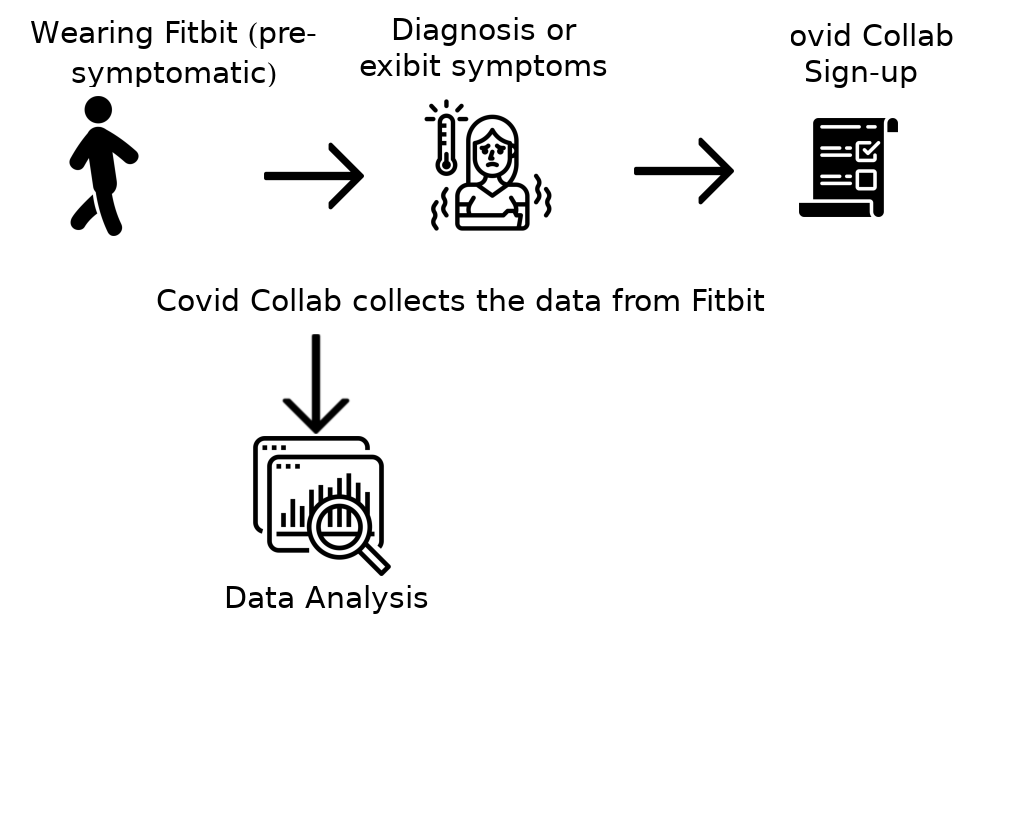
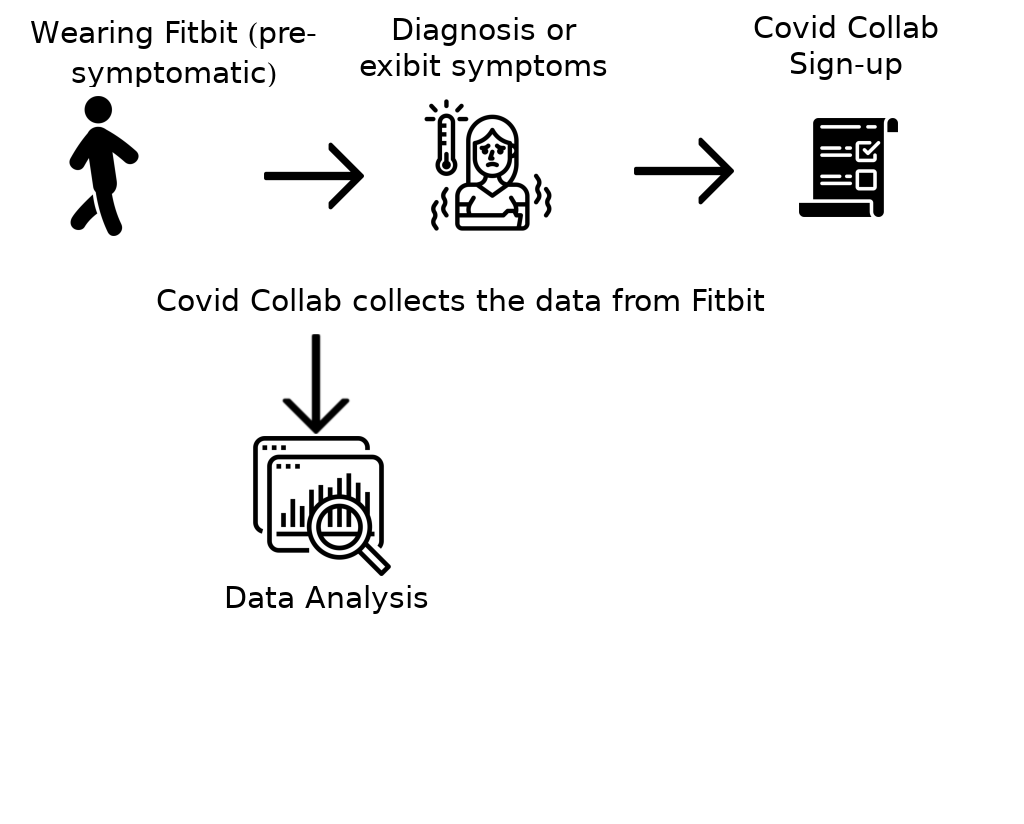
update text, fix workflow img

Changed region(s): [[0.75, 0.0, 0.9375, 0.1214]]

diff --git a/index.md b/index.md
@@ -43,14 +43,14 @@ page_sections:
 - template: content-feature
   block: feature-1
   media_alignment: Right
-  headline: "If you are an owner of a Fitbit Device and a Smartphone then you are eligible to participate!"
+  headline: "Do you own a Fitbit device and a Smartphone then you are eligible to participate!"
   content:
     "<strong>Some questions you'd be helping answer</strong>
     <ul>
-    <li>How social distancing measures affect the transmission rate (inside families and the general population) of the virus in normal the population?</li>
-    <li>What are the symptoms? Are there any early predictors of infection (e.g. heart rate, activity, respiration, sleep, loss of sense of smell)? And how reliable are these?</li>
-    <li>How contagious the virus is?</li>
-    <li>What factors affect how the CoViD-19 disease behaves? Are there any behavioural (e.g. fatigue) or physiological factors that determine progression or mild/moderate/severe outcomes?</li>
+    <li><b>How social distancing measures affect the transmission rate</b> (inside families and the general population) of the virus in normal the population?</li>
+    <li><b>What are the symptoms? Are there any early predictors of infection</b> (e.g. heart rate, activity, respiration, sleep, loss of sense of smell)? And how reliable are these?</li>
+    <li><b>How contagious the virus is?</b></li>
+    <li><b>What factors affect how the CoViD-19 disease behaves?</b> Are there any behavioural (e.g. fatigue) or physiological factors that determine progression or mild/moderate/severe outcomes?</li>
     </ul>"
   media:
     image: '/uploads/2020/03/27/fitbit-data-512.png'
@@ -58,7 +58,7 @@ page_sections:
 - template: content-feature
   block: feature-1
   media_alignment: Right
-  headline: "Don't own a Fitbit?"
+  headline: "Don't own a Fitbit? You can still participate"
   content:
     "<strong>How do you participate?</strong>
     <br>
@@ -67,9 +67,7 @@ page_sections:
     <li>Providing some phone data such as location (this is only used for our scientific work see our privacy policy and data use?</li>
     <li>If you have a Fitbit device then we’d like you to wear it and provide us with a feed of your heart rate, activity step count and sleep.</li>
     <br>
-    <br>
     And...
-    <br>
     <bt>
     <p>You can still contribute by completing our questionnaires via the App or help us share this online (twitter: @covid_collab, #covid_collab). It is essential we are able to collect this data as early as possible before large numbers of people people get infected by the virus.</pr>"
   media:
@@ -89,15 +87,15 @@ page_sections:
 - template: detail-content
   block: text-1
   headline: Sign up to Covid Collab!
-  content: "Please sign up to help us study CoViD19 and how it affects the population"
+  content: "Help us study CoViD19 and how it affects the population"
 - template: 2-column-text
   block: two-column-1
   col_1:
-    headline: ''
-    content: ''
+    headline: 'This data will help us understand'
+    content: 'how the virus is transmitted and what effects on your health this might include? By having data from your Fitbit we are interested to understand if there are early signals (e.g. such as Heart Rate) which may provide early signs of infection'
   col_2:
-    headline: ''
-    content: ''
+    headline: 'What makes some people more sick than others?'
+    content: 'It is poorly understood why CoViD-19 effects some people more severely. We hope this data will help us better understand duration of infection, severity and what factors influence this.'
 - template: content-feature
   block: feature-2
   media_alignment: Right
@@ -116,11 +114,11 @@ page_sections:
 - template: 2-column-text
   block: two-column-1
   col_1:
-    headline: ''
-    content: ''
+    headline: 'This data will help us...'
+    content: 'understanding what effects different (Non Pharmaceutical Interventions (NPIs) e.g. Social Distancing) have on the spread of the virus'
   col_2:
-    headline: ''
-    content: ''
+    headline: 'Mental health and wellbeing'
+    content: 'There is no doubt that NPIs & Social Isolation policy cause significant stress. We want to be better understand this and how they could be better implemented'
 - template: 4-column-footer
   block: footer-2
   col_2: <a href="/privacy_policy.html" title="Privacy Policy">Privacy Policy</a>
@@ -135,4 +133,3 @@ col_4: ''
 image: ''
 
 ---
-foo bar
